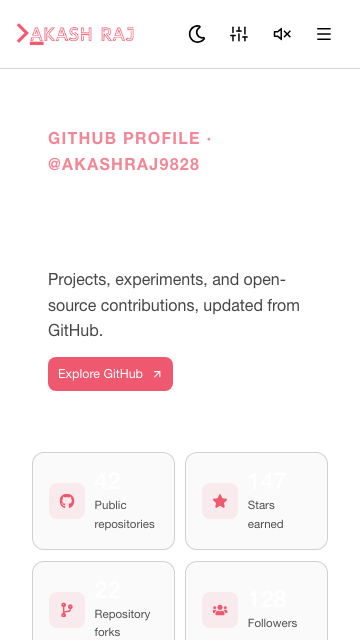
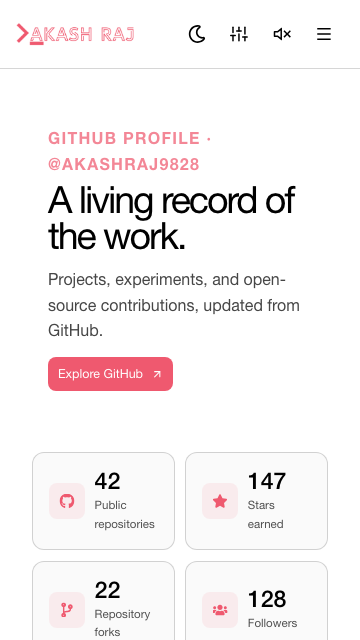
route remaining colors through theme tokens

diff --git a/src/assets/styles/theme.scss b/src/assets/styles/theme.scss
@@ -276,9 +276,39 @@ html.dark .repo-stars,
 html.light .repo-stars,
 html.dark .resume-entry-heading a,
 html.light .resume-entry-heading a,
+html.dark .resume-contact a,
+html.light .resume-contact a,
 html.dark .mobile-nav-label,
 html.light .mobile-nav-label {
 	color: var(--theme-accent) !important;
+}
+
+html.dark .work-heading h1,
+html.light .work-heading h1,
+html.dark .stats-intro h1,
+html.light .stats-intro h1,
+html.dark .contribution-heading h2,
+html.light .contribution-heading h2,
+html.dark .panel-heading h2,
+html.light .panel-heading h2,
+html.dark .stats-panel > h2,
+html.light .stats-panel > h2,
+html.dark .resume-header h1,
+html.light .resume-header h1,
+html.dark .resume-section h2,
+html.light .resume-section h2 {
+	color: var(--theme-text) !important;
+}
+
+html.dark .contact-socials nav a,
+html.light .contact-socials nav a {
+	color: var(--theme-text) !important;
+	border-color: var(--theme-border) !important;
+}
+html.dark .contact-socials nav a:hover,
+html.light .contact-socials nav a:hover {
+	color: var(--theme-accent) !important;
+	border-color: var(--theme-accent) !important;
 }
 
 html.dark .home-button--primary,
@@ -355,6 +385,27 @@ html.light .resume .resume-action-buttons > *:hover {
 	color: var(--theme-accent) !important;
 	background: var(--theme-accent-soft) !important;
 	border-color: var(--theme-accent) !important;
+}
+
+html.dark .project-tabs button,
+html.light .project-tabs button,
+html.dark .repo-row,
+html.light .repo-row,
+html.dark .stat-card strong,
+html.light .stat-card strong {
+	color: var(--theme-text) !important;
+}
+html.dark .repo-row,
+html.light .repo-row {
+	border-color: var(--theme-border) !important;
+}
+html.dark .resume-date,
+html.light .resume-date,
+html.dark .resume-entry-meta,
+html.light .resume-entry-meta,
+html.dark .resume-technologies,
+html.light .resume-technologies {
+	color: var(--theme-muted-text) !important;
 }
 
 html.dark .work .project-content h2 a,
